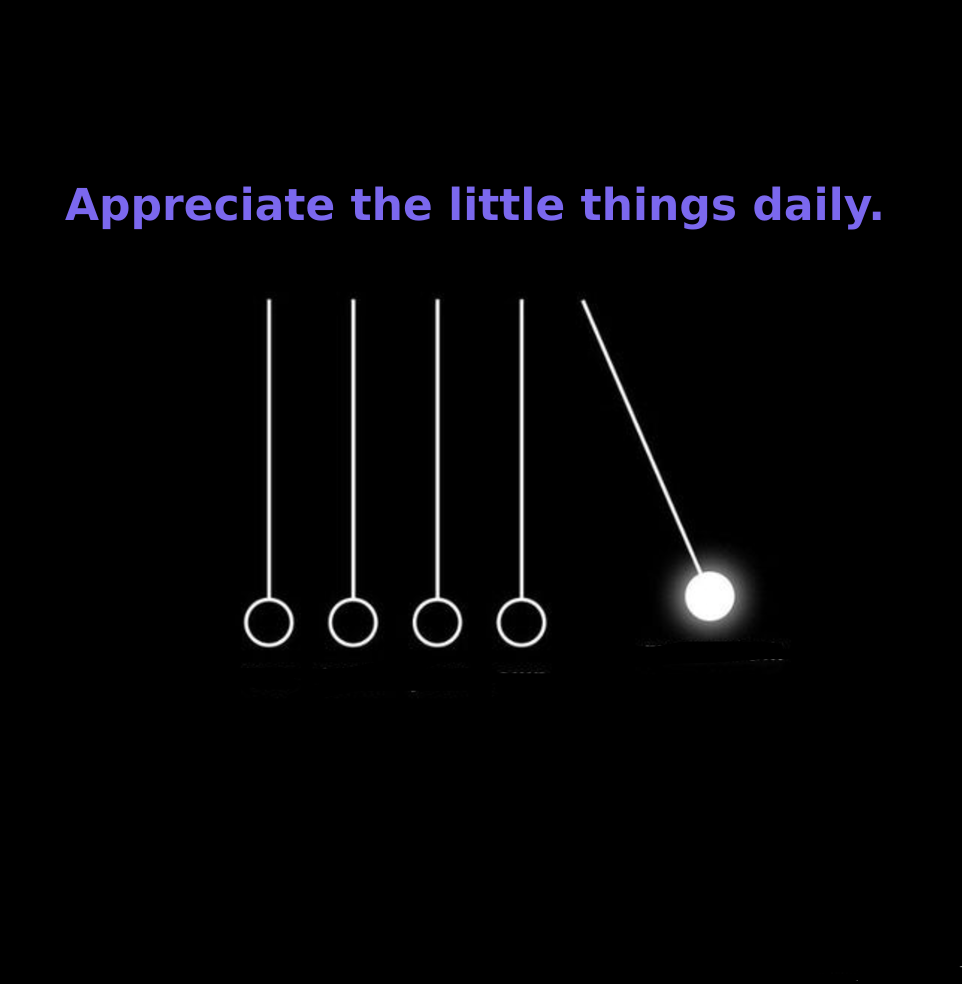
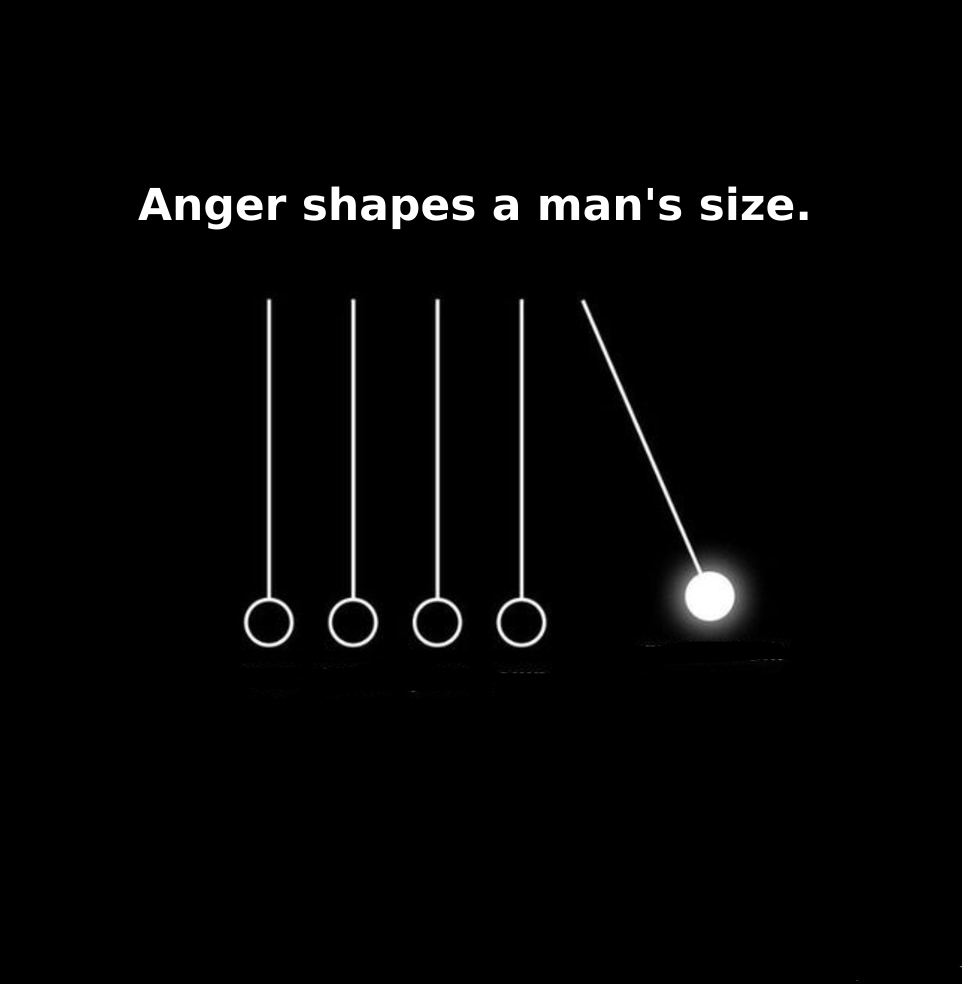
new feedback and aesthetic changes

Changed region(s): [[0.0624, 0.1829, 0.9044, 0.2439]]

diff --git a/backend/routes/dalleRoutes.js b/backend/routes/dalleRoutes.js
@@ -16,10 +16,13 @@ const openai = new OpenAI();
 
 // const openai = new OpenAIApi(configuration);
 
-async function generateVisualFromQuote(quote, theme, formality, color = "white") {
+async function generateVisualFromQuote(quote, theme, formality, color = "white", style) {
     // if (!quote || !theme || !formality) {
     //     throw new Error("Quote, theme, and formality are required parameters.");
     // }
+    if (color === "") {
+        color = "white";
+    }
 
     console.log(`Processing quote: ${quote}, theme: ${theme}, formality: ${formality}, color: ${color}`);
 
@@ -78,29 +81,43 @@ async function generateVisualFromQuote(quote, theme, formality, color = "white")
 
     console.log("Extracted elements:", { subpart1, subpart2, subpart3, summary });
 
-    const templatePath = path.join('/workspaces/typescript-node-4/blueberry/backend/template.png');
-    const outputPath = path.join('/workspaces/typescript-node-4/blueberry/backend/output.png');
+    console.log("Style:", style);
 
-    const escapeHtml = (unsafe) => {
-        return unsafe
-            .replace(/&/g, '&amp;')
-            .replace(/</g, '&lt;')
-            .replace(/>/g, '&gt;')
-            .replace(/"/g, '&quot;')
-            .replace(/'/g, '&#039;');
-    };
+    let templatePath;
+let yOffset = 0;
 
-    const lines = quote.match(/.{1,30}(\s|$)/g) || []; // Handle cases where quote is short or empty
+if (style === 'sketch') {
+    templatePath = path.join('/workspaces/typescript-node-4/blueberry/backend/Bridge-Trspt-8.png');
+    yOffset = -80;
 
-    const svgOverlay = `
-        <svg width="1000" height="1000" xmlns="http://www.w3.org/2000/svg">
-            <text x="200" y="380" font-size="30" fill="${color}" text-anchor="middle" font-family="Roboto">${escapeHtml(subpart1)}</text>
-            <text x="750" y="380" font-size="30" fill="${color}" text-anchor="middle" font-family="Roboto">${escapeHtml(subpart2)}</text>
-            <text x="500" y="610" font-size="30" fill="${color}" text-anchor="middle" font-family="Roboto">${escapeHtml(subpart3)}</text>
-            <text x="500" y="820" font-size="30" fill="${color}" text-anchor="middle" font-family="Roboto">Theme: ${theme}</text>
-            ${lines.map((line, index) => `<text x="500" y="${870 + index * 30}" font-size="30" fill="${color}" text-anchor="middle" font-family="Roboto" font-weight="700">${escapeHtml(line.trim())}</text>`).join('')}
-        </svg>
-    `;
+    if (color === "white") {
+        color = "black";
+    }
+} else {
+    templatePath = path.join('/workspaces/typescript-node-4/blueberry/backend/template.png'); // Default template
+}
+const outputPath = path.join('/workspaces/typescript-node-4/blueberry/backend/output.png');
+
+const escapeHtml = (unsafe) => {
+    return unsafe
+        .replace(/&/g, '&amp;')
+        .replace(/</g, '&lt;')
+        .replace(/>/g, '&gt;')
+        .replace(/"/g, '&quot;')
+        .replace(/'/g, '&#039;');
+};
+
+const lines = quote.match(/.{1,30}(\s|$)/g) || []; // Handle cases where quote is short or empty
+
+const svgOverlay = `
+    <svg width="1000" height="1000" xmlns="http://www.w3.org/2000/svg">
+        <text x="200" y="${380 + yOffset}" font-size="30" fill="${color}" text-anchor="middle" font-family="Roboto">${escapeHtml(subpart1)}</text>
+        <text x="750" y="${380 + yOffset}" font-size="30" fill="${color}" text-anchor="middle" font-family="Roboto">${escapeHtml(subpart2)}</text>
+        <text x="500" y="${610 + yOffset}" font-size="30" fill="${color}" text-anchor="middle" font-family="Roboto">${escapeHtml(subpart3)}</text>
+        <text x="500" y="${820 + yOffset}" font-size="30" fill="${color}" text-anchor="middle" font-family="Roboto">Theme: ${theme}</text>
+        ${lines.map((line, index) => `<text x="500" y="${870 + index * 30 + yOffset}" font-size="30" fill="${color}" text-anchor="middle" font-family="Roboto" font-weight="700">${escapeHtml(line.trim())}</text>`).join('')}
+    </svg>
+`;
 
     try {
         if (!svgOverlay || typeof svgOverlay !== "string") {
@@ -120,6 +137,9 @@ async function generateVisualFromQuote(quote, theme, formality, color = "white")
 }
 
 async function generateVisualFromQuoteBraid(quote, theme, formality, color = "black") {
+    if (color === "") {
+        color = "black";
+    }
     // if (!quote || !theme || !formality) {
     //     throw new Error("Quote, theme, and formality are required parameters.");
     // }
@@ -225,7 +245,6 @@ async function generateVisualFromQuoteBraid(quote, theme, formality, color = "bl
         throw error;
     }
 }
-
 
 async function generateVisualFromQuoteIceberg(prompt) {
     const completion = await openai.chat.completions.create({
@@ -571,6 +590,9 @@ async function generateVisualFromQuoteFish(quote, theme, formality, color = "whi
     // if (!quote || !theme || !formality) {
     //     throw new Error("Quote, theme, and formality are required parameters.");
     // }
+    if (color === "") {
+        color = "white";
+    }
 
     console.log(`Processing quote: ${quote}, theme: ${theme}, formality: ${formality}, color: ${color}`);
 
@@ -754,6 +776,9 @@ async function generateVisualFromQuoteNewton(quote, theme, formality, color = "w
     // if (!quote || !theme || !formality) {
     //     throw new Error("Quote, theme, and formality are required parameters.");
     // }
+    if (color === "") {
+        color = "white";
+    }
 
     console.log(`Processing quote: ${quote}, theme: ${theme}, formality: ${formality}, color: ${color}`);
 
@@ -900,9 +925,9 @@ router.route('/').get((req, res) => {
 
 router.route('/').post(async (req, res) => {
   try {
-    const { prompt, theme, color, formality } = req.body;
+    const { prompt, theme, color, formality, style } = req.body;
     console.log("a")
-    console.log(prompt, theme);
+    console.log(prompt, theme, color, formality, style);
     console.log("a")
 
 
@@ -919,7 +944,7 @@ router.route('/').post(async (req, res) => {
     
     // console.log(completion.choices[0].message);
 
-    const [outputPath, textBridge, modelBridge]  = await generateVisualFromQuote(prompt, theme, formality, color);
+    const [outputPath, textBridge, modelBridge]  = await generateVisualFromQuote(prompt, theme, formality, color, style);
     const imageBuffer = fs.readFileSync(outputPath);
     const imageBase64 = imageBuffer.toString('base64');
 

diff --git a/frontend/src/App.tsx b/frontend/src/App.tsx
@@ -56,6 +56,7 @@ function App() {
 
   const [color, setColor] = useState('');
   const [formality, setFormality] = useState('');
+  const [style, setStyle] = useState('');
 
 
   useEffect(() => {
@@ -114,6 +115,7 @@ function App() {
     const feedbackData = {
       quote: form.prompt,
       theme: selectedTheme,
+      style: style,
       color: color,
       formality: formality,
       visualRating: selectedRating,
@@ -179,7 +181,7 @@ function App() {
           headers: {
             'Content-Type': 'application/json',
           },
-          body: JSON.stringify({ prompt: form.prompt, theme: selectedTheme, color: color, formality: formality }),  
+          body: JSON.stringify({ prompt: form.prompt, theme: selectedTheme, color: color, formality: formality, style: style }),  
         });
         const data = await response.json();
         setForm({ 
@@ -285,14 +287,14 @@ function App() {
 
       <div className="flex mt-6">
         <div className="flex flex-col gap-4 p-4">
-          <Select>
+          <Select onValueChange={(value) => setStyle(value)}>
             <SelectTrigger className="w-[180px]">
               <SelectValue placeholder="Style" />
             </SelectTrigger>
             <SelectContent>
-              <SelectItem value="light">Coming Soon</SelectItem>
-              {/* <SelectItem value="dark">Dark</SelectItem>
-              <SelectItem value="system">System</SelectItem> */}
+              <SelectItem value="default">Default</SelectItem>
+              <SelectItem value="sketch">Sketch</SelectItem>
+              {/* <SelectItem value="system">System</SelectItem> */}
             </SelectContent>
           </Select>
           <Select onValueChange={(value) => setColor(value)}>
@@ -444,7 +446,7 @@ function App() {
             id="submit-btn"
             className="bg-blue-500 text-white px-4 py-2 rounded-md hover:bg-blue-600 disabled:opacity-50"
             onClick={handleSubmit}
-            disabled={selectedRating === 0}
+            disabled={selectedRating === 0 || textRating === 0}
           >
             Submit Rating
           </button>

diff --git a/backend/index.js b/backend/index.js
@@ -46,14 +46,23 @@ const Feedback = mongoose.model('Feedback', feedbackSchema);
 
 app.post('/api/submitFeedback', async (req, res) => {
     try {
-        const feedback = await Feedback.create(req.body); // Create and save the document in one step
-        res.status(201).send(feedback); 
+        // Validate request body
+        if (!req.body || Object.keys(req.body).length === 0) {
+            return res.status(400).send({ error: 'Bad Request', message: 'Feedback data is required' });
+        }
+
+        // Create and save the feedback document
+        const feedback = await Feedback.create(req.body);
+        console.log('Feedback submitted successfully:', feedback);
+        res.status(201).send(feedback);
     } catch (error) {
-    console.error('Error saving feedback:', error);
-    if (error.name === 'ValidationError') {
-        return res.status(400).send({ error: 'Validation Error', details: error.errors });
-    }
-    res.status(500).send({ error: 'Internal Server Error' });
+        console.error('Error saving feedback:', error);
+
+        if (error.name === 'ValidationError') {
+            return res.status(400).send({ error: 'Validation Error', details: error.errors });
+        }
+
+        res.status(500).send({ error: 'Internal Server Error', message: 'An unexpected error occurred while saving feedback' });
     }
 });
 
